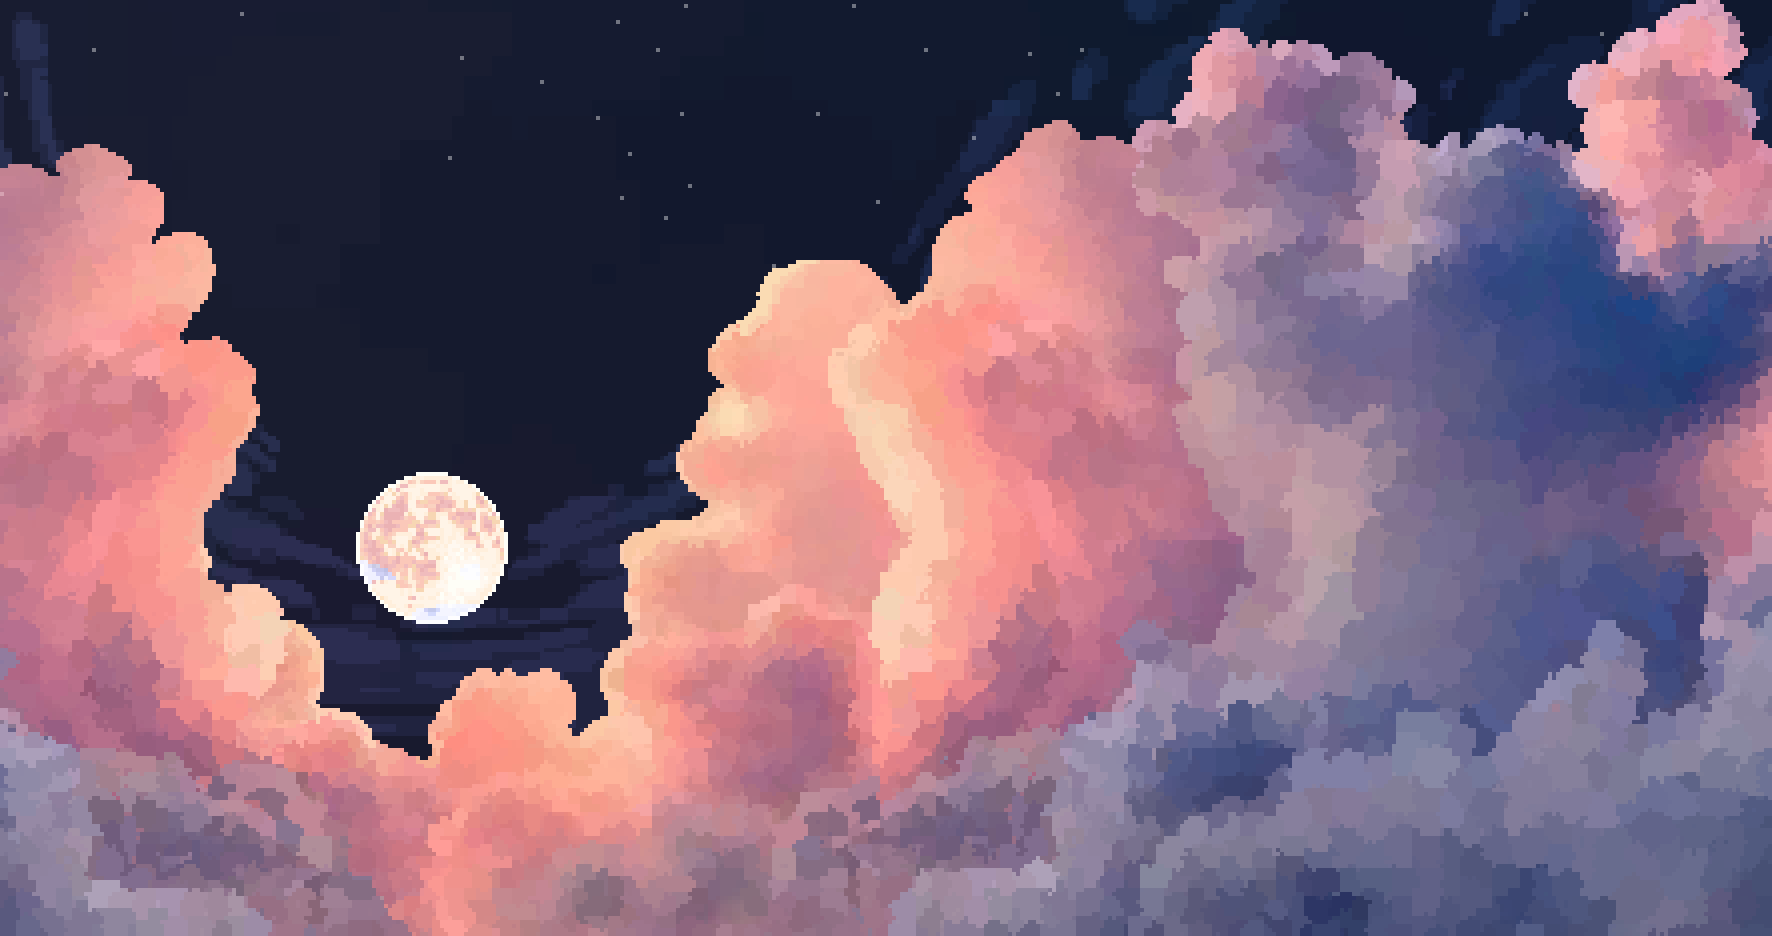
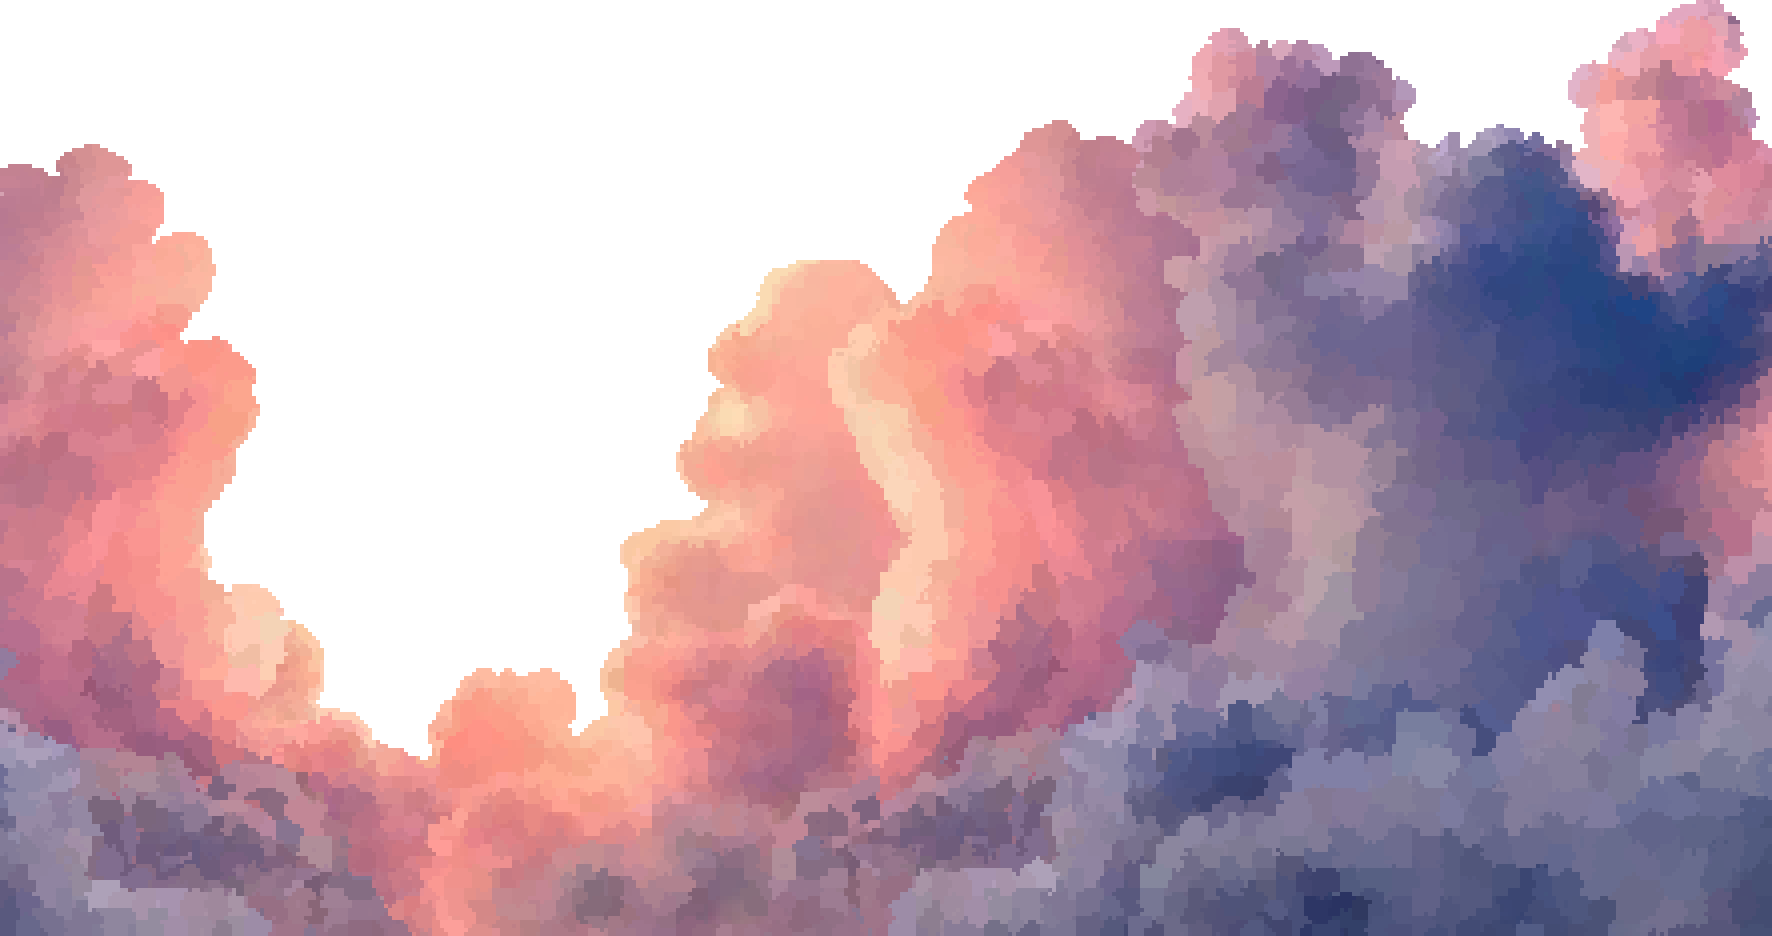
Added parallax background effect

Changed region(s): [[0.0, 0.0, 1.0, 0.8056]]

diff --git a/site.js b/site.js
@@ -14,22 +14,51 @@ document.addEventListener("DOMContentLoaded", () => {
     const navBar = document.querySelector(".navbar");
     const titleBox = document.querySelector(".title-box");
     const aboutSection = document.querySelector("#about");
+    const contactSection = document.querySelector("#contact");
     const scrollY = window.scrollY;
-    const aboutTop = aboutSection.getBoundingClientRect().top + window.scrollY;
+    const aboutTop = aboutSection.getBoundingClientRect().top + scrollY;
+    const contactTop = contactSection.getBoundingClientRect().top + scrollY;
     const slowScrollRate = 0.5;
 
-    // move title-box if it's above the viewport and not yet touching about-section
+    // Get viewport height for parallax background offsets
+    const viewportHeight = window.innerHeight;
+
+    // Move title-box if it's above the viewport and not yet touching about-section
     if (scrollY < aboutTop) {
-      const opacity = scrollY / aboutTop;
-      // adjust opacity of navbar
-      navBar.style.opacity = Math.min(0.7 + opacity, 1);
-      // Adjust position and opacity of title box
+      const opacity1 = scrollY / aboutTop;
       titleBox.style.transform = `translateY(${scrollY * slowScrollRate}px)`;
-      titleBox.style.opacity = Math.max(1 - opacity, 0);
+      titleBox.style.opacity = Math.max(1 - opacity1, 0);
     } else {
       titleBox.style.transform = "translateY(0)";
       titleBox.style.opacity = 0;
     }
+
+    // Adjust navbar opacity when below the contact section
+    const contactBottom = contactTop + contactSection.offsetHeight;
+    if (scrollY > contactBottom) {
+      // Calculate opacity based on how far below the contact section we are
+      const fadeDistance = 100;
+      const distanceBelow = scrollY - contactBottom;
+      const opacity2 = Math.max(1 - distanceBelow / fadeDistance, 0);
+      navBar.style.opacity = opacity2;
+    } else {
+      navBar.style.opacity = 1;
+    }
+
+    // Parallax background scroll rates
+    const body = document.body;
+    const bridgeScrollRate = 0.4;
+    const treesScrollRate = 0.5;
+    const castleScrollRate = 0.7;
+    const cloudsScrollRate = 0.9;
+
+    body.style.backgroundPosition = `
+      left ${scrollY * bridgeScrollRate + viewportHeight * 3.05}px, 
+      left ${scrollY * treesScrollRate + viewportHeight * 2.55}px,
+      left ${scrollY * castleScrollRate + viewportHeight * 1.5}px,
+      left ${scrollY * cloudsScrollRate + viewportHeight * 0.4}px, 
+      left 0px
+    `;
   });
 
   // Function to load text from a file into an html component

diff --git a/style.css b/style.css
@@ -1,10 +1,13 @@
 body {
   margin: 0;
   font-family: Arial, sans-serif;
-  background-image: url("../images/Clouds.png");
-  background-size: cover;
-  background-position: left;
-  background-attachment: fixed;
+  background-image: url("../images/Bridge.png"), url("../images/Trees.png"),
+    url("../images/Castle.png"), url("../images/Clouds.png"),
+    url("../images/Moon.png");
+  background-size: auto, auto, auto, auto, cover;
+  background-repeat: no-repeat, no-repeat, no-repeat, no-repeat, no-repeat;
+  background-attachment: scroll, scroll, scroll, scroll, fixed;
+  background-position: left 300vh, left 300vh, left 300vh, left 350vh, left top;
   min-width: 768px;
 }
 
@@ -66,8 +69,7 @@ body {
   margin-top: 2rem;
 }
 
-.title-section,
-.page-bottom-section {
+.title-section {
   position: relative;
   height: 70vh;
   display: flex;
@@ -75,6 +77,26 @@ body {
   margin-top: 3rem;
   margin-right: 10rem;
   align-items: center;
+}
+
+.page-bottom-section {
+  height: 90vh;
+  margin-top: 3rem;
+}
+
+.credits-section {
+  display: flex;
+  justify-content: center;
+  align-items: center;
+}
+
+.credits-box {
+  display: flex;
+  background: rgba(0, 0, 0, 1);
+  border-radius: 100px;
+  width: 400px;
+  padding: 10px;
+  margin-bottom: 2rem;
 }
 
 .title-box {
@@ -149,7 +171,7 @@ body {
   display: flex;
   margin-top: 10rem;
   gap: 2rem;
-  background: rgba(0, 0, 0, 0.9);
+  background: rgba(0, 0, 0, 0.8);
   border-radius: 20px;
   padding: 2rem;
   width: 95%;
@@ -194,7 +216,7 @@ body {
   display: none;
   height: 400px;
   width: 95%;
-  margin: 10PX;
+  margin: 10px;
   justify-content: center;
   align-items: center;
 }
@@ -248,13 +270,11 @@ button:hover {
 
 /* Projects Box */
 
-
-
 .project-box {
   display: flex;
   margin-top: 10rem;
   gap: 2rem;
-  background: rgba(0, 0, 0, 0.9);
+  background: rgba(0, 0, 0, 0.8);
   border-radius: 20px;
   padding: 2rem;
   width: 95%;
@@ -421,11 +441,12 @@ button:hover {
   font-weight: bold;
 }
 
-.contact-form input, .contact-form textarea {
+.contact-form input,
+.contact-form textarea {
   padding: 10px;
   border: 1px solid #ccc;
   border-radius: 5px;
-  font-family: 'Courier New', Courier, monospace;
+  font-family: "Courier New", Courier, monospace;
 }
 
 .form-buttons {
@@ -450,7 +471,6 @@ button[type="reset"] {
   background-color: #06425a;
   color: white;
 }
-
 
 /* Media Queries */
 

diff --git a/site.html b/site.html
@@ -24,6 +24,7 @@
           <a href="#projects" class="nav-link">Projects</a>
           <a href="#work" class="nav-link">Work</a>
           <a href="#contact" class="nav-link">Contact</a>
+          <a href="#credits" class="nav-link">Credits</a>
         </div>
       </nav>
     </header>
@@ -113,7 +114,7 @@
                 ></iframe>
               </div>
             </section>
-            
+
             <!-- Project 2 -->
             <section class="grid-item">
               <!-- Project 3 First Column: Project Overview Text -->
@@ -234,6 +235,13 @@
       </section>
 
       <section class="page-bottom-section"></section>
+      <section id="credits" class="credits-section">
+        <div class="credits-box">
+          <div class="title-text">
+            <p>I made this website! Copyright Jesse M. Ellis 2024 &#128522</p>
+          </div>
+        </div>
+      </section>
     </div>
   </body>
 </html>

diff --git a/Notebook.md b/Notebook.md
@@ -115,7 +115,7 @@ We should use classes to make things easier later.
     <section id="projects" class="projects-section">
       <h2 class="section-title">Projects</h2>
     </section>
-    
+
     <section id="contact" class="contact-section">
       <h2 class="section-title">Contact</h2>
     </section>
@@ -408,6 +408,7 @@ For the projects section I want to highlight two personal projects, maybe includ
 To accomplish stacking the different projet sections I am going to introduce some grid organization into the projects section. Withe simple CSS we can achieve a nice staked layout within our projects section.
 
 **CSS**
+
 ```
 .grid-container {
   display: grid;
@@ -427,13 +428,15 @@ To accomplish stacking the different projet sections I am going to introduce som
   align-items: center;
 }
 ```
+
 **HTML**
+
 ```
     <section id="projects" class="projects-section">
       <div class="project-box">
         <div class="grid-container">
           <h1 class="project-box-title">Personal Projects</h1>
-          
+
           <!-- Project 1 -->
           <section class="grid-item">
             <!-- Project 1 First Column: Project Overview Text -->
@@ -448,7 +451,7 @@ To accomplish stacking the different projet sections I am going to introduce som
               <h1 class="project-title">LunaLight - Teaser</h1>
             </div>
           </section>
-          
+
           <!-- Project 2 -->
           <section class="grid-item">
             <!-- Project 2 First Column: Project Overview Text -->
@@ -476,7 +479,7 @@ Now let's get into the interactive project components
 
 The first project highlight will be for my personal retro game project and include an imbedded you tube video as the interactive component. To help with this I'll be referencing som eof the infomation here: [HTML YouTube Videos](https://www.w3schools.com/html/html_youtube.asp).
 
-So we'll be using a component called `iframe` which allows us to embed video and set many useful attributes. 
+So we'll be using a component called `iframe` which allows us to embed video and set many useful attributes.
 
 As it turns out, if you click share on a YouTube video there is on option for "embed"! You can simply copy and paste it into your HTML!
 
@@ -524,8 +527,7 @@ In this section I want to showcase a really cool program I built that generates 
 
 To showcase this I would like to create a user form that allows the user to input the parameters and the hit a button that says "generate". As the program runs it will give some indication as to what it is doing and play each waveform. It will then prompt the user if they woudl like to save the generated wav file.
 
-*This is actually going to be quite difficult I think... To be continued...*
-
+_This is actually going to be quite difficult I think... To be continued..._
 
 ---
 
@@ -533,7 +535,7 @@ To showcase this I would like to create a user form that allows the user to inpu
 
 **12/07/2024**
 
-For this section I am going to keep things relatively simple. I also think ths will be a good case for the use of cards. There will be three cards that give a brief overview of my experiences at a few of my favorite past work experiences. In addition each card wil act as a button to open a link to the relevant linked-in page for each of the work experiences. 
+For this section I am going to keep things relatively simple. I also think ths will be a good case for the use of cards. There will be three cards that give a brief overview of my experiences at a few of my favorite past work experiences. In addition each card wil act as a button to open a link to the relevant linked-in page for each of the work experiences.
 
 ```
 <section id="work" class="work-section">
@@ -563,7 +565,7 @@ For this section I am going to keep things relatively simple. I also think ths w
 </section>
 ```
 
-To make each card a link I can add an `<a>` tag element, 
+To make each card a link I can add an `<a>` tag element,
 
 ```
 <a href="link_to_linkedin" target="_blank" class="work-card-link">
@@ -575,7 +577,6 @@ To make each card a link I can add an `<a>` tag element,
 ```
 
 and add the following CSS to create a nice effect when hovering above each card.
-
 
 ```
 .work-card-link {
@@ -596,15 +597,15 @@ and add the following CSS to create a nice effect when hovering above each card.
 
 **12/07/2024**
 
-Here the user should be prompted to enter their email and a message if they would like to collaborate or work. 
+Here the user should be prompted to enter their email and a message if they would like to collaborate or work.
 
 We will use a simple form that allows input for an email and a message. The form will have a submit button and reset button a well a validation. Submitting the message should validate user input and send an email to my preferred email with their contact info and message. Resetting should clear the form.
 
-So how do we send an email from the form? We also need to think about deployment to github pages. Here is a good stack about email options when deploying to GH pages. 
+So how do we send an email from the form? We also need to think about deployment to github pages. Here is a good stack about email options when deploying to GH pages.
 
 - [Stack Overflow - Email from GitHub Pages](https://stackoverflow.com/questions/24348223/send-email-from-static-page-hosted-on-github-pages)
 
-In this various people discuss options and honestly I thinkthe best option would be to use a third party service. 
+In this various people discuss options and honestly I thinkthe best option would be to use a third party service.
 
 Here are some options:
 
@@ -628,10 +629,10 @@ We can now build our `html` form section and include our email server configurat
     <form id="contact-form" method="POST" action="https://formspree.io/f/xwpkjpal" class="contact-form">
       <label for="email">Your Email:</label>
       <input type="email" id="email" name="email" placeholder="Enter your email" required>
-      
+
       <label for="message">Your Message:</label>
       <textarea id="message" name="message" rows="5" placeholder="Enter your message" required></textarea>
-      
+
       <div class="form-buttons">
         <button type="submit">Submit</button>
         <button type="reset">Clear</button>
@@ -646,7 +647,7 @@ This works really well just as html however there are some things that I think n
 - Successful submission redirects to a formspree confirmation screen.
 - When returning to our site, the form is not cleared
 
-Formspree includes an option to disable the redirect if you upgade to a paid account.. we don't want to do that. Instead we can fix these issues by taking control of what happens on submit action via JavaScript. We can submit the form using the fetch API and catch the response. We will want to handle potential errors as well as communciate to the user success or fail. We will use a simple alert message for both. On success, we will reset the form.  
+Formspree includes an option to disable the redirect if you upgade to a paid account.. we don't want to do that. Instead we can fix these issues by taking control of what happens on submit action via JavaScript. We can submit the form using the fetch API and catch the response. We will want to handle potential errors as well as communciate to the user success or fail. We will use a simple alert message for both. On success, we will reset the form.
 
 ```
 // On contact submit
@@ -674,7 +675,7 @@ document.getElementById("contact-form").addEventListener("submit", async functio
     }
   } catch (error) {
     // Log any errors
-    console.error("Error:", error); 
+    console.error("Error:", error);
     alert("There was a problem submitting your form. Please try again later.");
   }
 });
@@ -700,8 +701,12 @@ Although this would be really cool I've decided it is outside the scope of this 
 
 **12/08/2024**
 
-Another fun idea I had that is defintely within the scope is to create a parallaxing background. I think this will give a really cool user experience and highlight my love of game development.
+Another fun idea I had that is defintely within the scope is to create a parallax background. I think this will give a really cool user experience and highlight my love of art and game development.
 
-As the user scrolls to the bottom of the page there will be layered background elements that move at different speeds giving the effect that the view is descending into a pixel at view of the background. The parallaxing will give a depth and movement effect that will be fun for the user experience.
+As the user scrolls to the bottom of the page there will be layered background elements that move at different speeds giving the effect that the view is descending into a pixel art view of the background. The parallaxing will give a depth and movement effect that will be fun for the user experience.
 
-We have already done some of the work for this with our dynamic scrolling. 
+We have already done some of the work for this with our dynamic scrolling.
+
+**The plan**
+
+We are going to create additional _background_ layers that will be layered on top of the actual background. We will update our JavaScript scroll event listener to control the scroll speed of each of these layers. Finally we will use CSS to ensure the layers are styled correctly to get our parallax effect.
